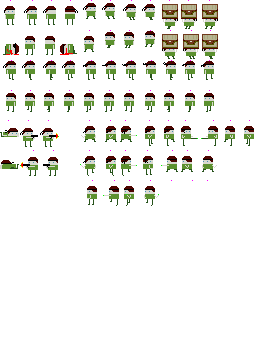
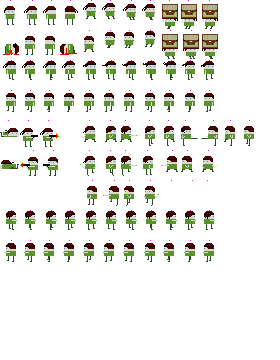
Added shield and foundation for protection by shields has established. Added multiple attack until attack button being released.

diff --git a/entity.py b/entity.py
@@ -26,6 +26,8 @@ class Entity(object):
         self.think_type: str = ''
         self.summon_demolisher = False
         self.summoned_demolishers_description = list()
+        self.summon_protector = False
+        self.summoned_protectors_description = list()
         # self.summoned_demolisher_description = dict()
         self.summon_particle = False
         self.summoned_particle_descriptions = list()
@@ -418,42 +420,38 @@ class Entity(object):
         if self.frame_number in self.active_frames:
             for action in self.animations[self.current_animation]['activity at frames'][self.frame_number]:
                 # print(self.frame_number, action)
-                if action == 'move':
-                    self.speed = self.animations[self.current_animation]['activity at frames'][self.frame_number]['move']
-                    # print(f'[process active frames] make step at frame {self.frame_number}')
-                elif action == 'demolisher':
-                    # print(f'[process active frames] make attack at frame {self.frame_number}')
-                    self.summon_demolisher = True
-                    self.summoned_demolishers_description = list()
-                    dem_set_num = self.animations[self.current_animation]['activity at frames'][self.frame_number]['demolishers set number']
-                    # if dem_set_num <= len(self.current_weapon['demolishers']) - 1:
-                    for d_origin in self.current_weapon['demolishers'][dem_set_num]:
-                    # for d_origin in self.current_weapon['demolishers'][self.frame_number]:
-                        # self.summon_demolisher_counter += 1
-                        d = copy.deepcopy(d_origin)
-                        # d['damage'] = d_origin['damage'] / self.frames_changing_threshold_penalty
-                        # d['snap to actor'] = self.id if d_origin['static'] else -1
-                        d['parent'] = self
-                        d['demolisher sprite'] = d_origin['demolisher sprite']
-                        # d['parent'] = self.name
-                        d['snapping offset'] = sprites[self.name + ' ' + str(self.animation_sequence[self.frame_number])]['demolisher snap point']
-                        # d['snapping offset'] = sprites[self.name + ' ' + str(self.animation_sequence[self.frame_number])]['demolisher snap point']
-                        # d['parent strength'] = self.strength
-                        # d['parent weight'] = self.body_weight
-
-                        self.summoned_demolishers_description.append(d)
-                        # self.summoned_demolisher_description['snapping offset'] = self.animations[self.current_animation]['demolisher offset'][self.look]
-                    # if self.summon_demolisher_counter < len(self.current_weapon['demolishers']) - 1:
-                    #     self.summon_demolisher = True
-                    #     self.summon_demolisher_counter += 1
-                    #     self.summoned_demolisher_description = self.current_weapon['demolishers'][self.summon_demolisher_counter]
-                    #     self.summoned_demolisher_description['snap to actor'] = self.id
-                    #     self.summoned_demolisher_description['parent'] = self.name
-                    #     self.summoned_demolisher_description['snapping offset'] = sprites[self.name + ' ' + str(self.animation_sequence[self.frame_number])]['demolisher snap point']
-                    #     # self.summoned_demolisher_description['snapping offset'] = self.animations[self.current_animation]['demolisher offset'][self.look]
-                elif action == 'sound':
-                    snd = self.animations[self.current_animation]['activity at frames'][self.frame_number]
-                    # print(f'[entity.process_activity_at_current_animation_frame] make {snd} at frame {self.frame_number}')
+                if self.animations[self.current_animation]['activity at frames'][self.frame_number][action]:
+                    # IF ACTION IS TRUE:
+                    if action == 'protector':
+                        # print(f'[process active frames] defend at frame {self.frame_number}')
+                        self.summon_protector = True
+                        self.summoned_protectors_description = list()
+                        dem_set_num = self.animations[self.current_animation]['activity at frames'][self.frame_number]['protectors set number']
+                        for d_origin in self.current_weapon['protectors'][dem_set_num]:
+                            d = copy.deepcopy(d_origin)
+                            d['parent'] = self
+                            d['protector sprite'] = d_origin['protector sprite']
+                            d['snapping offset'] = sprites[self.name + ' ' + str(self.animation_sequence[self.frame_number])]['demolisher snap point']
+                            self.summoned_protectors_description.append(d)
+                    elif action == 'demolisher':
+                        # print(f'[process active frames] make attack at frame {self.frame_number}')
+                        self.summon_demolisher = True
+                        self.summoned_demolishers_description = list()
+                        dem_set_num = self.animations[self.current_animation]['activity at frames'][self.frame_number]['demolishers set number']
+                        for d_origin in self.current_weapon['demolishers'][dem_set_num]:
+                            d = copy.deepcopy(d_origin)
+                            d['parent'] = self
+                            d['demolisher sprite'] = d_origin['demolisher sprite']
+                            d['snapping offset'] = sprites[self.name + ' ' + str(self.animation_sequence[self.frame_number])]['demolisher snap point']
+                            self.summoned_demolishers_description.append(d)
+                else:
+                    # Other actions
+                    if action == 'move':
+                        self.speed = self.animations[self.current_animation]['activity at frames'][self.frame_number]['move']
+                        # print(f'[process active frames] make step at frame {self.frame_number}')
+                    elif action == 'sound':
+                        snd = self.animations[self.current_animation]['activity at frames'][self.frame_number]
+                        # print(f'[entity.process_activity_at_current_animation_frame] make {snd} at frame {self.frame_number}')
             self.active_frames = self.active_frames[1:]
 
 

diff --git a/world.py b/world.py
@@ -898,13 +898,13 @@ class World(object):
                                 actor.set_action('hop back action cancel')
 
                         if self.is_attack:
-                            self.is_attack = False
+                            # self.is_attack = False
                             actor.current_weapon = actor.body['right hand']['weapon']['item']
                             actor.current_stamina_lost_per_attack = actor.normal_stamina_lost_per_attack * actor.current_weapon['stamina consumption']
                             actor.current_mana_lost_per_attack = actor.normal_mana_lost_per_attack * actor.current_weapon['mana consumption']
                             actor.set_action('attack')
                         elif self.is_alternate_attack:
-                            self.is_alternate_attack = False
+                            # self.is_alternate_attack = False
                             actor.current_weapon = actor.body['left hand']['weapon']['item']
                             actor.current_stamina_lost_per_attack = actor.normal_stamina_lost_per_attack * actor.current_weapon['stamina consumption']
                             actor.current_mana_lost_per_attack = actor.normal_mana_lost_per_attack * actor.current_weapon['mana consumption']
@@ -1435,6 +1435,10 @@ class World(object):
                 # if event.key == K_SPACE:
                     self.is_jump_button = False
                     self.jump_button_multiple_press_prevent = False
+                if event.key == K_RIGHT:
+                    self.is_attack = False
+                elif event.key == K_LEFT:
+                    self.is_alternate_attack = False
                 # if event.key == K_RIGHT:
                 #     self.is_attack = False
             if event.type == KEYDOWN:
@@ -1457,16 +1461,25 @@ class World(object):
                     # entity.body['left hand']['weapon'] = entity.inventory['weapons'][all_weapons[1]]
 
                     all_weapons = list(self.actors['player'].inventory['weapons'].keys())
+                    # all_shields = list(self.actors['player'].inventory['shields'].keys())
+                    # all_gear = all_shields + all_weapons
+                    # current_index = all_gear.index(self.actors['player'].body[self.player_actor_hand_to_change_weapon]['weapon']['item']['label'])
                     current_index = all_weapons.index(self.actors['player'].body[self.player_actor_hand_to_change_weapon]['weapon']['item']['label'])
+                    # if current_index + 1 > len(all_gear) - 1:
                     if current_index + 1 > len(all_weapons) - 1:
                         next_index = 0
                     else:
                         next_index = current_index + 1
 
+                    # while self.actors['player'].inventory['weapons'][all_gear[next_index]] == \
+                    #       self.actors['player'].body['left hand' if self.player_actor_hand_to_change_weapon == 'right hand' else 'right hand']['weapon']: \
+                    #     next_index = 0 if next_index + 1 > len(all_gear) - 1 else next_index + 1
+
                     while self.actors['player'].inventory['weapons'][all_weapons[next_index]] == \
                           self.actors['player'].body['left hand' if self.player_actor_hand_to_change_weapon == 'right hand' else 'right hand']['weapon']: \
                         next_index = 0 if next_index + 1 > len(all_weapons) - 1 else next_index + 1
 
+                    # self.actors['player'].body[self.player_actor_hand_to_change_weapon]['weapon'] = self.actors['player'].inventory['weapons'][all_gear[next_index]]
                     self.actors['player'].body[self.player_actor_hand_to_change_weapon]['weapon'] = self.actors['player'].inventory['weapons'][all_weapons[next_index]]
 
                     # if current_index + 1 > len(all_weapons) - 1:

diff --git a/actors_description.py b/actors_description.py
@@ -768,7 +768,7 @@ player_jake = {
     'max speed': 8,
     'acceleration': .8,
     'air acceleration': .4,
-    'items': (fireball_staff,jake_kick,pistol,axe,whip,),
+    'items': (fireball_staff,small_shield,jake_kick,pistol,axe,whip,),
     # 'items': (whip,fireball_staff,sword,kitchen_knife,),
     'animations': {
         'stand still right': {
@@ -1170,6 +1170,70 @@ player_jake = {
                     # 'move': 10,  # Slightly move actor forward,
                     'demolishers set number': 0,
                     'demolisher': True
+                },
+            },
+            'repeat from frame': 0
+        },
+        'protect right': {
+            'repeat': False, 'interruptable': True,
+            'sequence': (98,),  # 0 - 474, 74, 74, 74, 75, 75),  # 5 - 9
+            'speed': 1,
+            'activity at frames': {
+                0: {
+                    'sound': None,
+                    # 'move': 10,  # Slightly move actor forward,
+                    'protectors set number': 0,
+                    'demolishers set number': 0,
+                    'protector': True,
+                    'demolisher': False
+                },
+            },
+            'repeat from frame': 0
+        },
+        'protect left': {
+            'repeat': False, 'interruptable': True,
+            'sequence': (122,),  # 0 - 474, 74, 74, 74, 75, 75),  # 5 - 9
+            'speed': 1,
+            'activity at frames': {
+                0: {
+                    'sound': None,
+                    # 'move': 10,  # Slightly move actor forward,
+                    'protectors set number': 0,
+                    'demolishers set number': 0,
+                    'protector': True,
+                    'demolisher': False
+                },
+            },
+            'repeat from frame': 0
+        },
+        'protect walk right': {
+            'repeat': True,
+            'sequence': (98,99,100,101,102,103,104,105,106,107,108,),  # 0 - 474, 74, 74, 74, 75, 75),  # 5 - 9
+            'speed': 1,
+            'activity at frames': {
+                0: {
+                    'sound': None,
+                    # 'move': 10,  # Slightly move actor forward,
+                    'protectors set number': 0,
+                    'demolishers set number': 0,
+                    'protector': True,
+                    'demolisher': False
+                },
+            },
+            'repeat from frame': 0
+        },
+        'protect walk left': {
+            'repeat': True,
+            'sequence': (122,121,120,119,118,117,116,115,114,113,112,),  # 0 - 474, 74, 74, 74, 75, 75),  # 5 - 9
+            'speed': 1,
+            'activity at frames': {
+                0: {
+                    'sound': None,
+                    # 'move': 10,  # Slightly move actor forward,
+                    'protectors set number': 0,
+                    'demolishers set number': 0,
+                    'protector': True,
+                    'demolisher': False
                 },
             },
             'repeat from frame': 0

diff --git a/weapons.py b/weapons.py
@@ -609,3 +609,46 @@ barrel_explosion = {
     ),
 
 }
+
+small_shield = {
+    'description': 'Small shield.',
+    'class': 'weapons',
+    'type': 'shields',
+    'label': 'small shield',
+    'sprite': 'small shield',
+    'attack animation': 'protect',
+    'sound': 'sound_swing_2',
+    # 'amount': 1,
+    # 'amount threshold': 1,
+    # 'amount decrease speed': 0,
+    'affects on': '',
+    'stamina consumption': 0.,  # Stamina reduce multiplier. The greater, the more stamina will be lost by one weapon use.
+    'mana consumption': 0.,
+    'ignore user input': False,  # Steal the ability to control a character for a while.
+    'animation speed modifier': 1.,  # 0 < x < 1: speed animation up, x > 1: slow down.
+    'leave particles': False,
+    'droppable': False,
+    'protectors': (
+        ({
+            'rect': pygame.Rect(0, 0, 50, 50), 'flyer': False,
+            'visible': False,
+            'protector sprite': 'small shield protector',
+            'pierce': False, 'protector TTL': 0, 'speed': 0,
+            'static': True, 'damage reduce': 0,
+            'collides': True, 'gravity affected': False,
+            'bounce': False, 'bounce factor': 0.,
+            'attack type': None,
+            # 'attack type': ('fire', 'smash', 'pierce', 'slash'),
+            'damage': {
+                'fire': 0,
+                'smash': 0,
+                'pierce': 0,
+                'slash': 0
+            },
+            'aftermath': None
+            # 'aftermath': 'explode'
+            # 'aftermath': 'disappear'
+        },),
+    ),
+
+}

diff --git a/graphics.py b/graphics.py
@@ -119,8 +119,8 @@ def load_single_frame(source, frame, name, scale_factor=1):
         'current mask rect': pygame.Rect(0,0,0,0)
     }
 
-    if sprites[name]["demolisher snap point"] != [0,0]:
-        print(f'[load single frame] added {name=} {sprites[name]["demolisher snap point"]}')
+    # if sprites[name]["demolisher snap point"] != [0,0]:
+    #     print(f'[load single frame] added {name=} {sprites[name]["demolisher snap point"]}')
 # def load_frames(source, approximate_frames, name, scale_factor=1):
 #     frame_count = 0
 #     global sprites, sprites_reference
@@ -357,6 +357,9 @@ load_single_frame(items, ((80,210,20,30),), 'axe 315 demolisher', 9)
 
 load_single_frame(items, ((20,240,20,30),), 'pistol', 3)
 
+load_single_frame(items, ((20,270,20,30),), 'small shield', 4)
+load_single_frame(items, ((40,270,20,30),), 'small shield protector', 4)
+
 
 
 # ___...---=== JAKE ===---...___
@@ -372,7 +375,7 @@ load_single_frame(tmp_sprites, ((260,150,20,18),), name + ' avatar front')
 # load_single_frame(tmp_sprites, ((2660,1720,90,50),), name + 'floor shadow mask')
 # load_single_frame(tmp_sprites, ((1744,2194,332,205),), name + ' 98')  # Unconsciousness frame 1
 # load_single_frame(tmp_sprites, ((2076,2220,369,176),), name + ' 99')  # Unconsciousness frame 2
-load_all_frames(tmp_sprites, 97, name, 20, 30, 8)
+load_all_frames(tmp_sprites, 122, name, 20, 30, 8)
 # load_all_frames(tmp_sprites, 97, name, 20, 30, 8, weak_spots)
 
 # ___...---=== EXPLODING BARREL ===---...___

diff --git a/actor.py b/actor.py
@@ -600,6 +600,8 @@ class Actor(Entity):
             self.ignore_user_input = self.current_weapon['ignore user input']
             if self.is_stand_on_ground:
                 self.heading[0] = 0
+        elif self.get_state() == 'protect':
+            ...
         elif self.get_state() == 'prepare crouch attack left':                          # PREPARING ATTACK
             self.set_state(self.current_weapon['attack animation'] + ' crouch left')
             self.stamina_reduce(self.current_stamina_lost_per_attack)
@@ -1044,8 +1046,6 @@ class Actor(Entity):
             if self.animation_sequence_done:
                 print(f'[state machine] {self.name} state: *EXPLOSION*.')
                 self.dying = True
-
-
 
     def reset_self_flags(self):
         self.is_move_left = False
